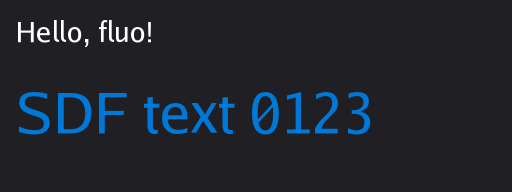
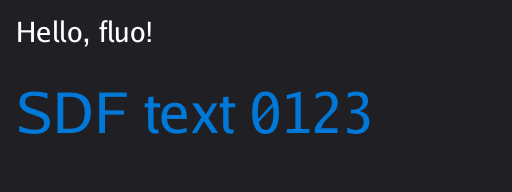
fix(text): integer-align glyph baseline to stop per-glyph vertical jitter
rasterGlyph floored minX/minY when computing mask size and rasterize
offsets, so offX/offY (and the bearingX/bearingY derived from them)
land on whole device pixels for every glyph. Previously bearingY
carried the fractional part of the glyph outline minY, so two glyphs
placed at the same pixel-snapped baseline (Face.Draw) would still end
up on different mask rows -- the reported per-glyph +/-1px bob (e.g.
uniform-height digits visibly jittering).

Adds TestRasterGlyphIntegerBearings (text/font_test.go) asserting
integer bearings across letters/digits, and
TestFaceDrawBaselineConsistent (text/face_test.go) asserting every
glyph in a rendered string shares one integer device baseline at
scale 1 and 2. Regenerates render/gl and controls goldens (glyph
pixel positions shift by a sub-pixel amount); visually confirmed text
stays crisp and now baseline-aligned.

diff --git a/text/raster.go b/text/raster.go
@@ -52,9 +52,18 @@ func (f *Font) rasterGlyph(gi sfnt.GlyphIndex, sizePx float32, pad int) (mask *i
 	maxX := float32(bounds.Max.X) / 64
 	maxY := float32(bounds.Max.Y) / 64
 
-	// 2) mask size: ceil(bounds) + 2*pad on each axis.
-	w := int(math.Ceil(float64(maxX-minX))) + 2*pad
-	h := int(math.Ceil(float64(maxY-minY))) + 2*pad
+	// 2) mask size: integer-aligned so the glyph's baseline (y=0) and left
+	// origin (x=0) land on whole mask rows/columns. Flooring minX/minY
+	// (rather than using the fractional value directly) means offX/offY
+	// below are integers, so bearingX/bearingY (== -offX/-offY, see step 5)
+	// come out as whole device pixels for every glyph. Since every glyph is
+	// later placed at the same (already pixel-snapped) integer baseline,
+	// integer bearings are what make baselines line up exactly across
+	// glyphs instead of jittering by the glyph's fractional minY.
+	fminX := int(math.Floor(float64(minX)))
+	fminY := int(math.Floor(float64(minY)))
+	w := int(math.Ceil(float64(maxX))) - fminX + 2*pad
+	h := int(math.Ceil(float64(maxY))) - fminY + 2*pad
 	if w <= 0 {
 		w = 1
 	}
@@ -63,9 +72,14 @@ func (f *Font) rasterGlyph(gi sfnt.GlyphIndex, sizePx float32, pad int) (mask *i
 	}
 
 	// 3) rasterize, offsetting every point so the tight outline bounds
-	// (expanded by pad) land inside [0, w) x [0, h).
-	offX := -minX + float32(pad)
-	offY := -minY + float32(pad)
+	// (expanded by pad) land inside [0, w) x [0, h). offX/offY are integers
+	// (see above), so this only shifts the outline by a whole number of
+	// mask pixels; the sub-pixel part of minX/minY is preserved in the
+	// rasterized coverage, it just lands at a fractional position within
+	// pixel row/column fminX-pad/fminY-pad rather than being folded into
+	// the offset itself.
+	offX := float32(pad - fminX)
+	offY := float32(pad - fminY)
 
 	rast := vector.NewRasterizer(w, h)
 	rast.DrawOp = draw.Src
@@ -97,9 +111,11 @@ func (f *Font) rasterGlyph(gi sfnt.GlyphIndex, sizePx float32, pad int) (mask *i
 	mask = image.NewAlpha(image.Rect(0, 0, w, h))
 	rast.Draw(mask, mask.Bounds(), image.Opaque, image.Point{})
 
-	// 5) bearings: offset from pen position to mask top-left.
-	bearingX = minX - float32(pad)
-	bearingY = minY - float32(pad)
+	// 5) bearings: offset from pen position to mask top-left. These are
+	// exactly -offX/-offY (whole pixels, see step 2) rather than the
+	// fractional minX/minY used pre-integer-alignment.
+	bearingX = float32(fminX - pad)
+	bearingY = float32(fminY - pad)
 
 	return mask, bearingX, bearingY, nil
 }

diff --git a/text/face_test.go b/text/face_test.go
@@ -1,6 +1,7 @@
 package text
 
 import (
+	"math"
 	"testing"
 
 	"golang.org/x/image/font/gofont/goregular"
@@ -115,6 +116,63 @@ func TestFaceDrawUsesDrawGlyphs(t *testing.T) {
 			}
 			if rdy := dy - float32(int(dy+0.5)); rdy > 1e-3 || rdy < -1e-3 {
 				t.Errorf("scale=%v quad[%d]: Dst.Y*scale = %v not pixel-snapped", scale, i, dy)
+			}
+		}
+	}
+}
+
+// TestFaceDrawBaselineConsistent is the anti-jitter regression test: it
+// renders a string of uniform-height digits (plus a mixed-case string with
+// ascenders/descenders) and asserts every emitted glyph quad shares the same
+// integer device baseline. Before the rasterGlyph integer-bearing fix, each
+// glyph's bearingY carried the outline's fractional minY, so
+// quad.Dst.Y*scale - bearingY (device baseline) varied by up to 1px between
+// glyphs even though Face.Draw computes a single shared baseline for the
+// whole string — the reported "0123456789 bobbing" bug. Checked at scale 1
+// and scale 2 since px (and so which coverage-atlas entries are used) is
+// recomputed per scale.
+func TestFaceDrawBaselineConsistent(t *testing.T) {
+	f, err := Load(goregular.TTF)
+	if err != nil {
+		t.Fatal(err)
+	}
+	fa := NewFace(f, 16)
+	atlas := fa.Font.sharedAtlas()
+
+	for _, s := range []string{"0123456789", "Hi fluo Qgjy"} {
+		for _, scale := range []float32{1, 2} {
+			rr := &recordingRenderer{scale: scale}
+			fa.Draw(rr, render.Point{X: 2, Y: 3}, s, render.RGB(255, 255, 255))
+
+			px := int(fa.SizePx*scale + 0.5)
+			if px < 1 {
+				px = 1
+			}
+
+			var wantBaseline float32
+			have := false
+			qi := 0
+			for _, ch := range s {
+				gi, _ := fa.Font.glyphIndex(ch)
+				e, err := atlas.glyphCoverage(gi, px)
+				if err != nil || e.empty {
+					continue
+				}
+				if qi >= len(rr.glyphQuads) {
+					t.Fatalf("s=%q scale=%v: ran out of quads at visible glyph %d", s, scale, qi)
+				}
+				q := rr.glyphQuads[qi]
+				baseline := q.Dst.Y*scale - e.bearingY
+
+				if rounded := float32(math.Round(float64(baseline))); baseline-rounded > 1e-3 || baseline-rounded < -1e-3 {
+					t.Errorf("s=%q scale=%v glyph %q: device baseline %v not integer", s, scale, ch, baseline)
+				}
+				if !have {
+					wantBaseline, have = baseline, true
+				} else if baseline-wantBaseline > 1e-3 || baseline-wantBaseline < -1e-3 {
+					t.Errorf("s=%q scale=%v glyph %q: device baseline = %v, want %v (same as other glyphs in the string)", s, scale, ch, baseline, wantBaseline)
+				}
+				qi++
 			}
 		}
 	}

diff --git a/text/font_test.go b/text/font_test.go
@@ -1,6 +1,7 @@
 package text
 
 import (
+	"math"
 	"testing"
 
 	"golang.org/x/image/font/gofont/goregular"
@@ -79,4 +80,48 @@ func TestRasterGlyph(t *testing.T) {
 		t.Errorf("bearingY should be negative (above baseline), got %v", by)
 	}
 	_ = bx
+}
+
+// TestRasterGlyphIntegerBearings is the anti-jitter unit test for the fix
+// in rasterGlyph: bearingX/bearingY must be whole device pixels for every
+// glyph, since Face.Draw snaps the shared device baseline to an integer
+// pixel once and then combines it with each glyph's bearingY unrounded — if
+// bearingY carried a fractional part (as it did pre-fix, coming straight
+// from the glyph's fractional outline minY), different glyphs would land on
+// different baseline rows even though the pen's baseline is the same. Covers
+// letters and digits (the reported "0123456789 bobbing" symptom) plus a
+// couple of ascender/descender-heavy glyphs likely to have very different
+// fractional minY/minX.
+func TestRasterGlyphIntegerBearings(t *testing.T) {
+	f, err := Load(goregular.TTF)
+	if err != nil {
+		t.Fatal(err)
+	}
+
+	for _, r := range "0123456789AgjQ" {
+		gi := mustGlyph(t, f, r)
+		mask, bx, by, err := f.rasterGlyph(gi, 37, 4) // odd, non-power-of-two px to surface fractional bounds
+		if err != nil {
+			t.Fatalf("rasterGlyph(%q): %v", r, err)
+		}
+
+		if bx != float32(math.Trunc(float64(bx))) {
+			t.Errorf("rasterGlyph(%q): bearingX = %v, not integer", r, bx)
+		}
+		if by != float32(math.Trunc(float64(by))) {
+			t.Errorf("rasterGlyph(%q): bearingY = %v, not integer", r, by)
+		}
+
+		b := mask.Bounds()
+		if b.Dx() <= 0 || b.Dy() <= 0 {
+			t.Errorf("rasterGlyph(%q): empty mask bounds %v", r, b)
+		}
+		sum := 0
+		for _, a := range mask.Pix {
+			sum += int(a)
+		}
+		if sum == 0 {
+			t.Errorf("rasterGlyph(%q): mask has no coverage", r)
+		}
+	}
 }
